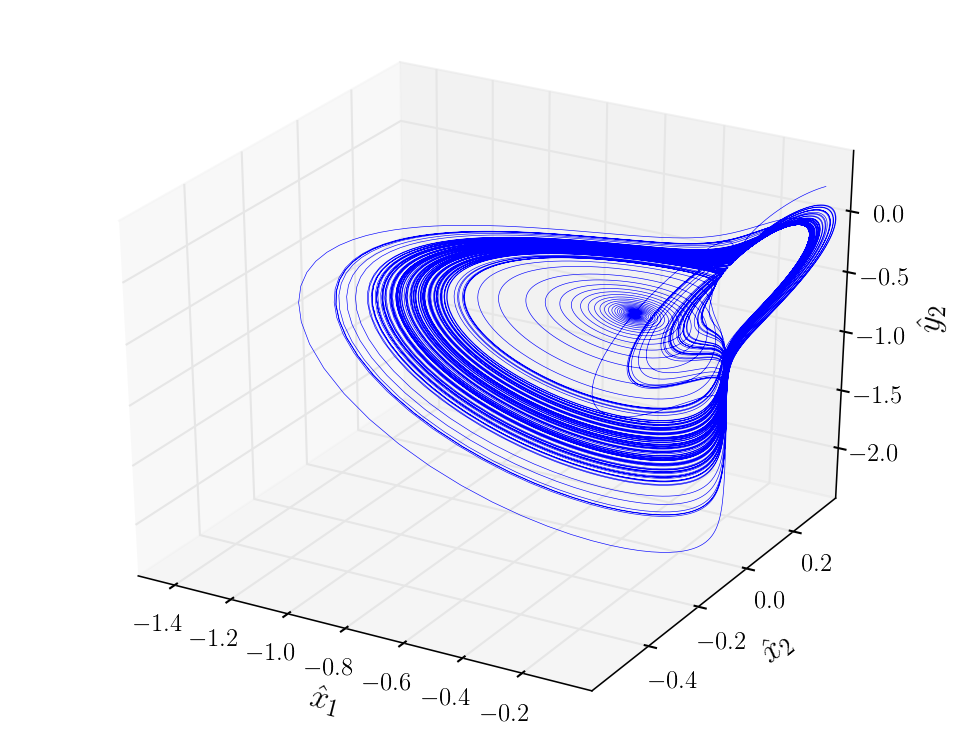
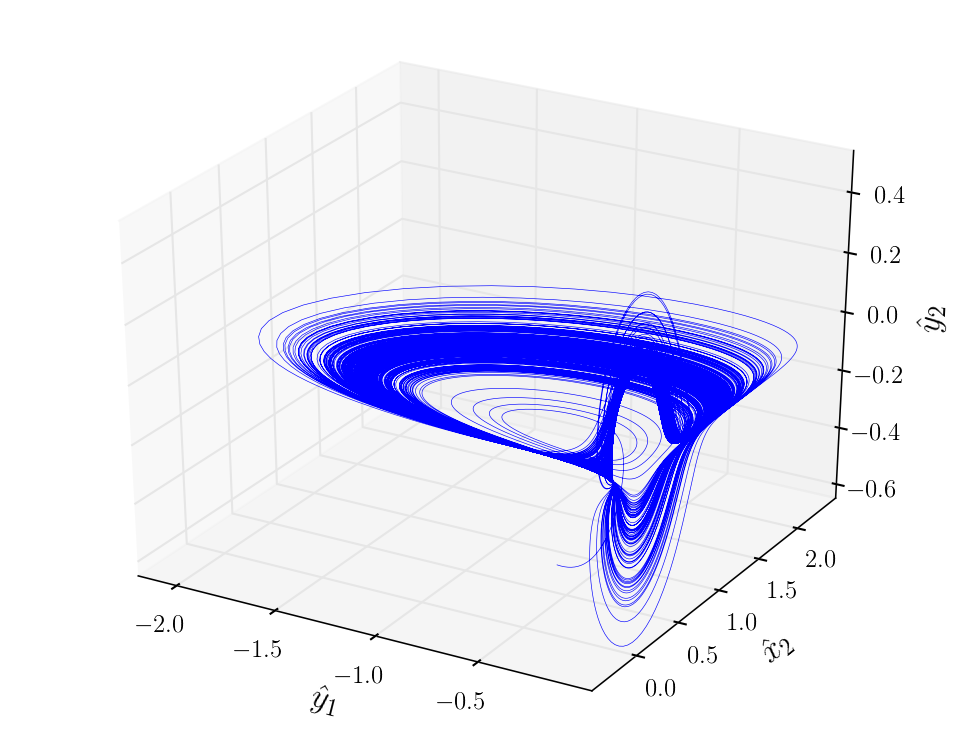
rechecked the numerics and found mistakes, results are consistent now.

diff --git a/blog/burak/PorterKnobloch/python/onslice3dplotter.py b/blog/burak/PorterKnobloch/python/onslice3dplotter.py
@@ -22,8 +22,8 @@ t, x1hat, y1hat, x2hat, y2hat, phi = loadtxt('data/solutiononslice.dat', unpack=
 fig = plt.figure()
 ax = fig.gca(projection='3d')
 
-ax.plot(x1hat, x2hat, y2hat, linewidth=0.3)
-ax.set_xlabel('$\hat{x}_1$', fontsize=16)
+ax.plot(y1hat, x2hat, y2hat, linewidth=0.3)
+ax.set_xlabel('$\hat{y}_1$', fontsize=16)
 ax.set_ylabel('$\hat{x}_2$', fontsize=16)
 ax.set_zlabel('$\hat{y}_2$', fontsize=16)
 #ax.view_init(15,30)

diff --git a/blog/2modesBB.tex b/blog/2modesBB.tex
@@ -2595,5 +2595,8 @@ I still never managed to make numerics work on 1st mode slices other than
 the magic slice, to which, right now I have no explanation to, but there should 
 be one. 
 
+\item[2013-11-18 Burak] Well I made them work, there were stupid mistakes before.
+Now everything make sense and is less interesting. 
+
 \item[2013-08-10  Predrag to Chaos Gang] It's not over until it is over.
 \end{description}

diff --git a/blog/burak/PorterKnobloch/python/onslicesolver.py b/blog/burak/PorterKnobloch/python/onslicesolver.py
@@ -61,6 +61,7 @@ if __name__ == "__main__":
 	#y20=-0.3862670595294275
 	#phi0= 0
 	x10=-0.311103
+	x10=0
 	y10=-0.311103
 	x20=-0.070204
 	y20=-0.386267
